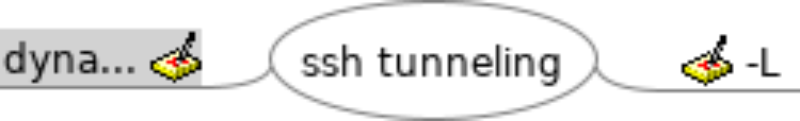
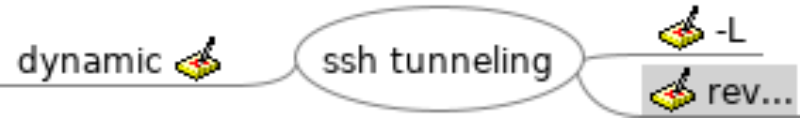
update lecture notes

diff --git a/ssh tunneling.mm b/ssh tunneling.mm
@@ -17,8 +17,7 @@
       dari local .. di forward ke port komputer sana
     </p>
   </body>
-</html>
-</richcontent>
+</html></richcontent>
 </node>
 <node CREATED="1652012878171" ID="ID_76053602" MODIFIED="1652012888755" POSITION="left" TEXT="dynamic">
 <richcontent TYPE="NOTE"><html>
@@ -31,6 +30,18 @@
     </p>
     <p>
       socks proxy
+    </p>
+  </body>
+</html></richcontent>
+</node>
+<node CREATED="1652013144125" ID="ID_1900851211" MODIFIED="1652013166328" POSITION="right" TEXT="reverse">
+<richcontent TYPE="NOTE"><html>
+  <head>
+    
+  </head>
+  <body>
+    <p>
+      ssh -R port:komputer yg dituju
     </p>
   </body>
 </html>
